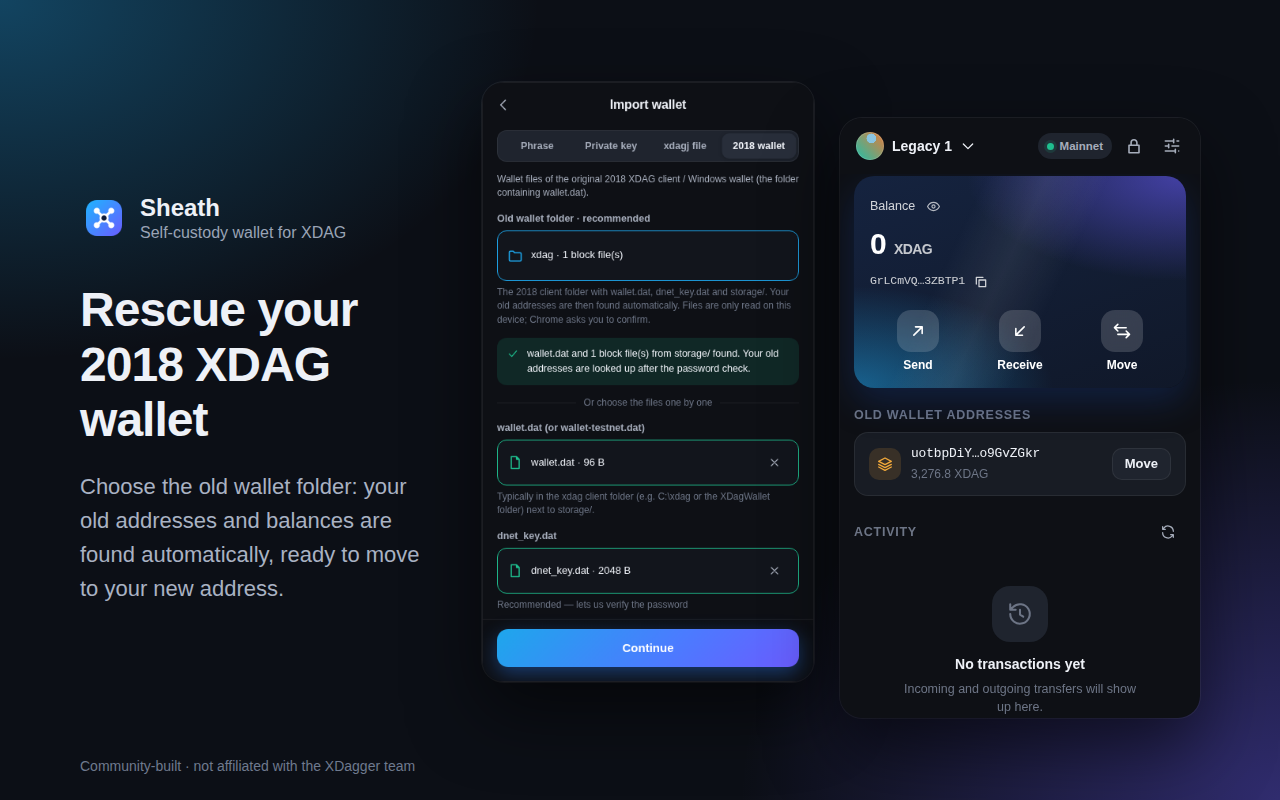
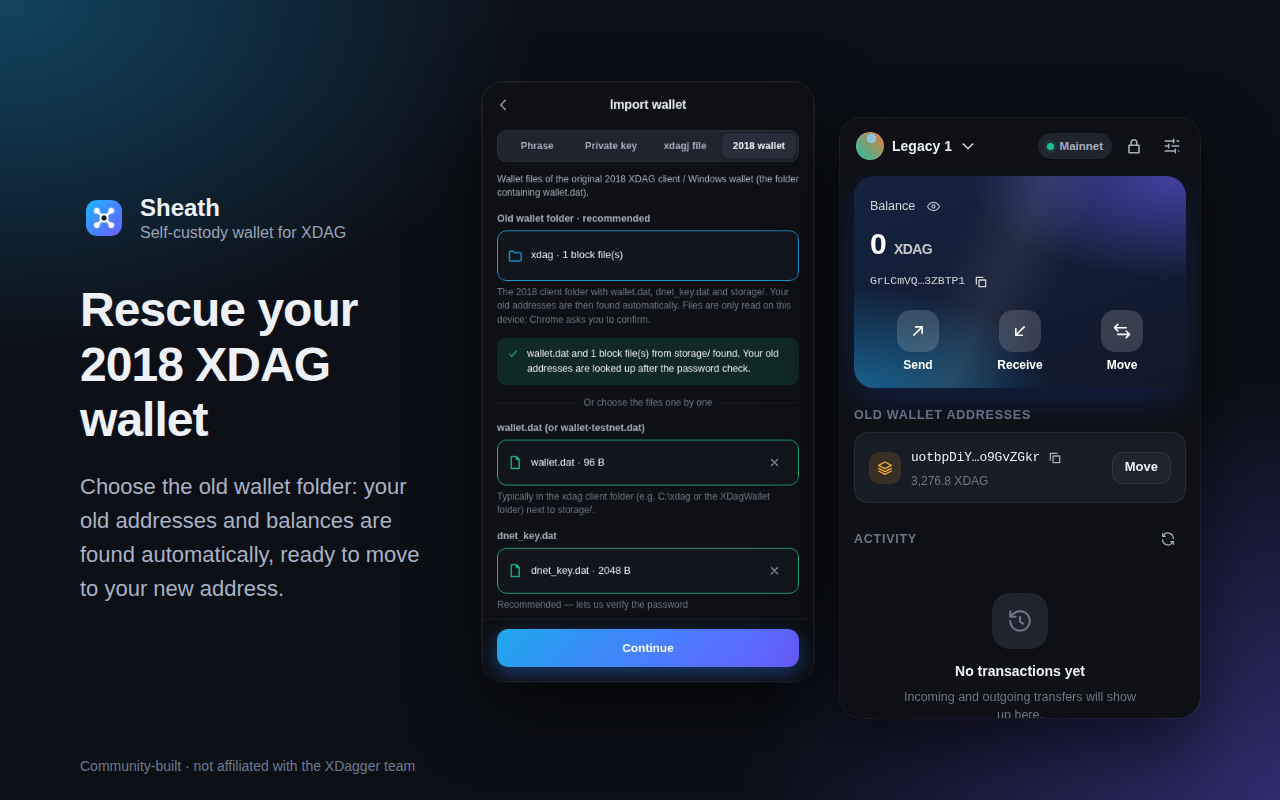
Fix explorer links for old addresses; copy button; update check
- The XDAG explorer reads the block id from the raw request path
  without URL-decoding it, so "%2B" in a 2018 address was not found:
  addresses and hashes are now put in the link as they are (its route
  accepts '/'), and anything else is refused
- Mainnet explorer is https://explorer.xdag.io
- Home: copy button next to each old wallet address
- Settings > About: "Check for updates" asks Chrome to check now for a
  Web Store install; a hand-installed copy opens the download page and
  explains how to update without losing data
- README: how to upgrade safely (never remove the extension)
- Version 1.3.0

Claude-Session: https://claude.ai/code/session_01Y9NrCvJCzNY1mGwFhQeKoK

diff --git a/src/ui/pages/Settings.tsx b/src/ui/pages/Settings.tsx
@@ -6,13 +6,44 @@ import type { NetworkKind } from '@/core/tx';
 import { allNetworks, originPattern, validateNodeUrl } from '@/shared/networks';
 import type { Contact, NetworkConfig, Settings } from '@/shared/types';
 import { call, openExternal } from '../api';
-import { Button, CopyButton, Empty, Identicon, IconButton, Notice, Page, PasswordField, Row, Segmented, Sheet, TextField, Toggle } from '../components';
+import { Button, CopyButton, Empty, Identicon, IconButton, Notice, Page, PasswordField, Row, Segmented, Sheet, Spinner, TextField, Toggle } from '../components';
 import { middle } from '../format';
 import { Icon } from '../icons';
 import { errorText, networkLabel, t, type MessageKey } from '../i18n';
 import { navigate } from '../router';
 import { applySettings, applyState, clearLocalCaches, contacts, describeError, loadContacts, network, settings, toast, toastError, wallet } from '../state';
 import { PasswordSheet } from './Accounts';
+
+const RELEASES_URL = 'https://github.com/xdagx/xdagx/releases';
+
+/**
+ * "Check for updates". A Chrome Web Store install (its manifest gets an update_url) is updated by
+ * Chrome itself; this only asks Chrome to check now. A hand-installed copy cannot replace its own
+ * files (and downloading code is not allowed), so it opens the download page instead.
+ */
+function useUpdateCheck() {
+  const fromStore = 'update_url' in chrome.runtime.getManifest();
+  const [checking, setChecking] = useState(false);
+  const [message, setMessage] = useState<string | null>(null);
+  const [ready, setReady] = useState(false);
+  const check = async () => {
+    if (!fromStore) {
+      openExternal(RELEASES_URL);
+      return;
+    }
+    setChecking(true);
+    try {
+      const r = await chrome.runtime.requestUpdateCheck();
+      setReady(r.status === 'update_available');
+      setMessage(r.status === 'update_available' ? t('updateAvailable', { v: r.version ?? '' }) : r.status === 'no_update' ? t('upToDate') : t('updateThrottled'));
+    } catch (e) {
+      toastError(e);
+    } finally {
+      setChecking(false);
+    }
+  };
+  return { fromStore, checking, message, ready, check };
+}
 
 async function patch(p: Partial<Settings>) {
   try {
@@ -29,6 +60,7 @@ export function SettingsPage() {
   const [sheet, setSheet] = useState<null | 'language' | 'autolock' | 'password' | 'phrase' | 'export' | 'reset'>(null);
   const [phrase, setPhrase] = useState<string | null>(null);
   const version = chrome.runtime.getManifest().version;
+  const update = useUpdateCheck();
   const lockLabel = (m: number) => (m === 0 ? t('autoLockNever') : m >= 60 ? t('hours', { n: m / 60 }) : t('minutes', { n: m }));
   return (
     <Page title={t('settingsTitle')}>
@@ -88,6 +120,14 @@ export function SettingsPage() {
       </div>
       <div class="card list-card">
         <Row icon="info" title={`${t('appName')} ${version}`} subtitle={<span class="wrap">{t('unofficialNote')}</span>} />
+        <Row
+          icon="refresh"
+          title={t('checkUpdates')}
+          subtitle={<span class="wrap">{update.message ?? t(update.fromStore ? 'autoUpdateNote' : 'manualUpdateNote')}</span>}
+          right={update.checking ? <Spinner size={16} /> : undefined}
+          onClick={update.check}
+        />
+        {update.ready && <Row icon="refresh" title={t('restartToUpdate')} onClick={() => chrome.runtime.reload()} />}
         <Row icon="external" title="XDagger/xdagj" subtitle={t('sourceCode')} onClick={() => openExternal('https://github.com/XDagger/xdagj')} />
         <Row icon="external" title="XDagger/xdag" subtitle={t('legacyClientSubtitle')} onClick={() => openExternal('https://github.com/XDagger/xdag')} />
         <Row icon="external" title="XDagger/XDAG-Pro" onClick={() => openExternal('https://github.com/XDagger/xdag-pro')} />

diff --git a/src/ui/i18n.ts b/src/ui/i18n.ts
@@ -177,6 +177,13 @@ const en = {
 
   accountsTitle: 'Accounts',
   addAccount: 'Create account',
+  checkUpdates: 'Check for updates',
+  autoUpdateNote: 'Installed from the Chrome Web Store: Chrome keeps it up to date; your wallet stays as it is.',
+  manualUpdateNote: 'Installed by hand, so it does not update itself: opens the download page. To update, unzip the new version over the same folder and press reload on chrome://extensions. Do not remove the extension: that deletes the wallet data.',
+  upToDate: 'You have the latest version.',
+  updateAvailable: 'Version {v} is being downloaded and is installed when the wallet is idle.',
+  updateThrottled: 'Checked too often, try again later.',
+  restartToUpdate: 'Restart now to update (the wallet locks)',
   newPhraseTitle: 'New recovery phrase',
   newPhraseNote: 'This wallet has no recovery phrase yet: its accounts were imported from keys or wallet files. New accounts come from this new phrase. Back it up; your imported accounts are not part of it, keep their original files or keys too.',
   importAccount: 'Import',
@@ -519,6 +526,13 @@ const zh: Record<MessageKey, string> = {
 
   accountsTitle: '账户',
   addAccount: '创建账户',
+  checkUpdates: '检查更新',
+  autoUpdateNote: '从 Chrome 应用商店安装：Chrome 会自动更新，钱包数据保持不变。',
+  manualUpdateNote: '手动安装的版本不会自动更新，点此打开下载页。更新时把新版本解压覆盖到原来的文件夹，再到 chrome://extensions 点刷新。不要移除扩展：移除会删除钱包数据。',
+  upToDate: '已是最新版本。',
+  updateAvailable: '新版本 {v} 正在下载，钱包空闲时会自动安装。',
+  updateThrottled: '检查过于频繁，请稍后再试。',
+  restartToUpdate: '立即重启以完成更新（钱包会锁定）',
   newPhraseTitle: '新的助记词',
   newPhraseNote: '当前钱包还没有助记词（账户都是用私钥或钱包文件导入的）。新账户将由这组新助记词生成，请备份好；导入的账户不包含在其中，原来的钱包文件或私钥也请继续保管。',
   importAccount: '导入',

diff --git a/src/shared/networks.ts b/src/shared/networks.ts
@@ -1,13 +1,13 @@
 import type { NetworkConfig, Settings } from './types';
 
-/** Public endpoints used by the official XDAG Pro wallet (lib/common/global.dart). */
+/** Public RPC endpoints used by the official XDAG Pro wallet (lib/common/global.dart); the community block explorer. */
 export const BUILTIN_NETWORKS: NetworkConfig[] = [
   {
     id: 'mainnet',
     name: 'Mainnet',
     kind: 'mainnet',
     rpcUrl: 'https://mainnet-rpc.xdagj.org',
-    explorerUrl: 'https://mainnet-explorer.xdagj.org',
+    explorerUrl: 'https://explorer.xdag.io',
     builtin: true,
   },
   {
@@ -37,9 +37,16 @@ export function currentNetwork(settings: Settings): NetworkConfig {
   return allNetworks(settings).find((n) => n.id === settings.networkId) ?? BUILTIN_NETWORKS[0]!;
 }
 
+/**
+ * Explorer page of an address or block. The XDAG explorer (github.com/XDagger/explorer,
+ * BlockController) takes the id from the raw request path without URL-decoding it, and its route
+ * accepts '/' in the id: a 2018 block address, which may contain '+' and '/', must be put in the
+ * path as it is ('%2B' is not found). Only address / hash characters are allowed through.
+ */
 export function explorerLink(net: NetworkConfig, addressOrBlock: string): string | null {
-  if (!net.explorerUrl) return null;
-  return `${net.explorerUrl.replace(/\/+$/, '')}/block/${encodeURIComponent(addressOrBlock)}`;
+  const id = addressOrBlock.trim();
+  if (!net.explorerUrl || !/^[A-Za-z0-9+/]{20,128}$/.test(id)) return null;
+  return `${net.explorerUrl.replace(/\/+$/, '')}/block/${id}`;
 }
 
 /** Accepts only http(s) URLs; plain http is allowed for localhost nodes only. */

diff --git a/tests/networks.test.ts b/tests/networks.test.ts
@@ -1,0 +1,23 @@
+import { describe, expect, it } from 'vitest';
+import { BUILTIN_NETWORKS, explorerLink } from '@/shared/networks';
+
+describe('explorer links', () => {
+  const mainnet = BUILTIN_NETWORKS.find((n) => n.id === 'mainnet')!;
+
+  it('keep 2018 block addresses as they are (the explorer does not URL-decode the path)', () => {
+    expect(explorerLink(mainnet, 'kAC2WjZkpznR8ELgPIL2UKJuzAJx9+UM')).toBe('https://explorer.xdag.io/block/kAC2WjZkpznR8ELgPIL2UKJuzAJx9+UM');
+    expect(explorerLink(mainnet, 'Wjvq3/JkRUom0LtTE/uyAa4V7ipvqDyK')).toBe('https://explorer.xdag.io/block/Wjvq3/JkRUom0LtTE/uyAa4V7ipvqDyK');
+  });
+
+  it('links new addresses and block hashes', () => {
+    expect(explorerLink(mainnet, '5xcSXy9S2iHEaxvnTUhpF5fWAYBhoT8yP')).toBe('https://explorer.xdag.io/block/5xcSXy9S2iHEaxvnTUhpF5fWAYBhoT8yP');
+    expect(explorerLink(mainnet, 'ab'.repeat(32))).toBe(`https://explorer.xdag.io/block/${'ab'.repeat(32)}`);
+  });
+
+  it('refuses anything that is not an address or hash', () => {
+    for (const bad of ['', 'abc', '../settings', 'kAC2WjZkpznR8ELgPIL2UKJuzAJx9+UM?x=1', 'kAC2WjZkpznR8ELgPIL2UKJuzAJx9 UM', 'a#'.repeat(20)]) {
+      expect(explorerLink(mainnet, bad)).toBeNull();
+    }
+    expect(explorerLink({ ...mainnet, explorerUrl: '' }, 'kAC2WjZkpznR8ELgPIL2UKJuzAJx9+UM')).toBeNull();
+  });
+});

diff --git a/src/ui/pages/Home.tsx b/src/ui/pages/Home.tsx
@@ -254,7 +254,12 @@ export function Home() {
                     <Icon name="layers" size={16} />
                   </span>
                   <span class="legacy-main">
-                    <span class="mono">{middle(b, 8, 8)}</span>
+                    <span class="legacy-addr">
+                      <span class="mono" title={b}>
+                        {middle(b, 8, 8)}
+                      </span>
+                      <CopyButton text={b} />
+                    </span>
                     <span class="row-sub">
                       {balances.value[b] ? `${fmtAmount(balanceOf(b), { hide, decimals: 4 })} XDAG` : unknownOnNode.value[b] ? t('notOnNode') : <Skeleton width={70} height={11} />}
                     </span>

diff --git a/src/ui/styles.css b/src/ui/styles.css
@@ -1843,6 +1843,20 @@ html[data-mode='tab'] .sheet-root {
   gap: 2px;
 }
 
+.legacy-addr {
+  display: flex;
+  align-items: center;
+  gap: 2px;
+  min-width: 0;
+}
+
+.legacy-addr .icon-btn {
+  width: 26px;
+  height: 26px;
+  border-radius: 8px;
+  flex: none;
+}
+
 .tx-group {
   display: flex;
   flex-direction: column;

diff --git a/README.md b/README.md
@@ -64,6 +64,13 @@ npm run package        # 可选：生成 release/sheath-xdag-wallet-<version>.zi
 ```
 
 在 Chrome 打开 `chrome://extensions` → 打开“开发者模式” → “加载已解压的扩展程序” → 选择 `dist/` 目录。
+
+### 升级（钱包数据不丢失）
+
+- **从 Chrome 应用商店安装**：Chrome 自动更新，数据保持不变；“设置 → 关于 → 检查更新”可立即检查。
+- **手动安装（加载已解压）**：把新版本**解压覆盖到原来的同一个文件夹**，再在 `chrome://extensions` 点该扩展的刷新按钮。数据保存在 Chrome 中、按扩展 ID 区分，手动安装的扩展 ID 由文件夹路径决定，所以同一路径覆盖后数据还在（刷新后钱包会锁定，输入密码即可）。
+- **不要“移除”扩展**：移除会删除这个扩展保存的全部数据（加密金库、设置、地址簿）。换到别的文件夹加载也相当于一个新扩展，看不到原来的数据。
+- 任何重装之前先备份：助记词（设置 → 显示助记词）、“导出 xdagj wallet.data”，以及原来的 2018 钱包文件 / 私钥。
 首次安装会自动打开欢迎页，可创建新钱包或导入已有钱包。
 
 ### 上架 Chrome 网上应用店
